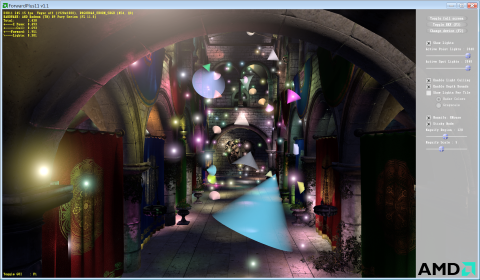
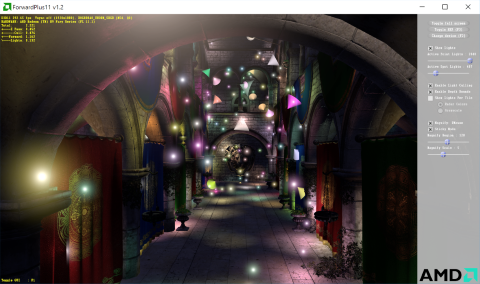
Update thumbnail

diff --git a/README.md b/README.md
@@ -1,5 +1,5 @@
 # AMD Forward+ Sample
-<img src="forwardplus11/media/Thumbnail.png" width="480" height="280" />
+<img src="forwardplus11/media/Thumbnail.png" width="480" height="284" />
 
 The ForwardPlus11 DirectX 11 sample provides an example implementation of the Forward+ algorithm, which extends traditional forward rendering to support high numbers of dynamic lights while maintaining performance. It utilizes a Direct3D 11 compute shader (DirectCompute 5.0) to divide the screen into tiles and quickly cull lights against those tiles, resulting in per-tile light lists for the forward pixel shader.
 
